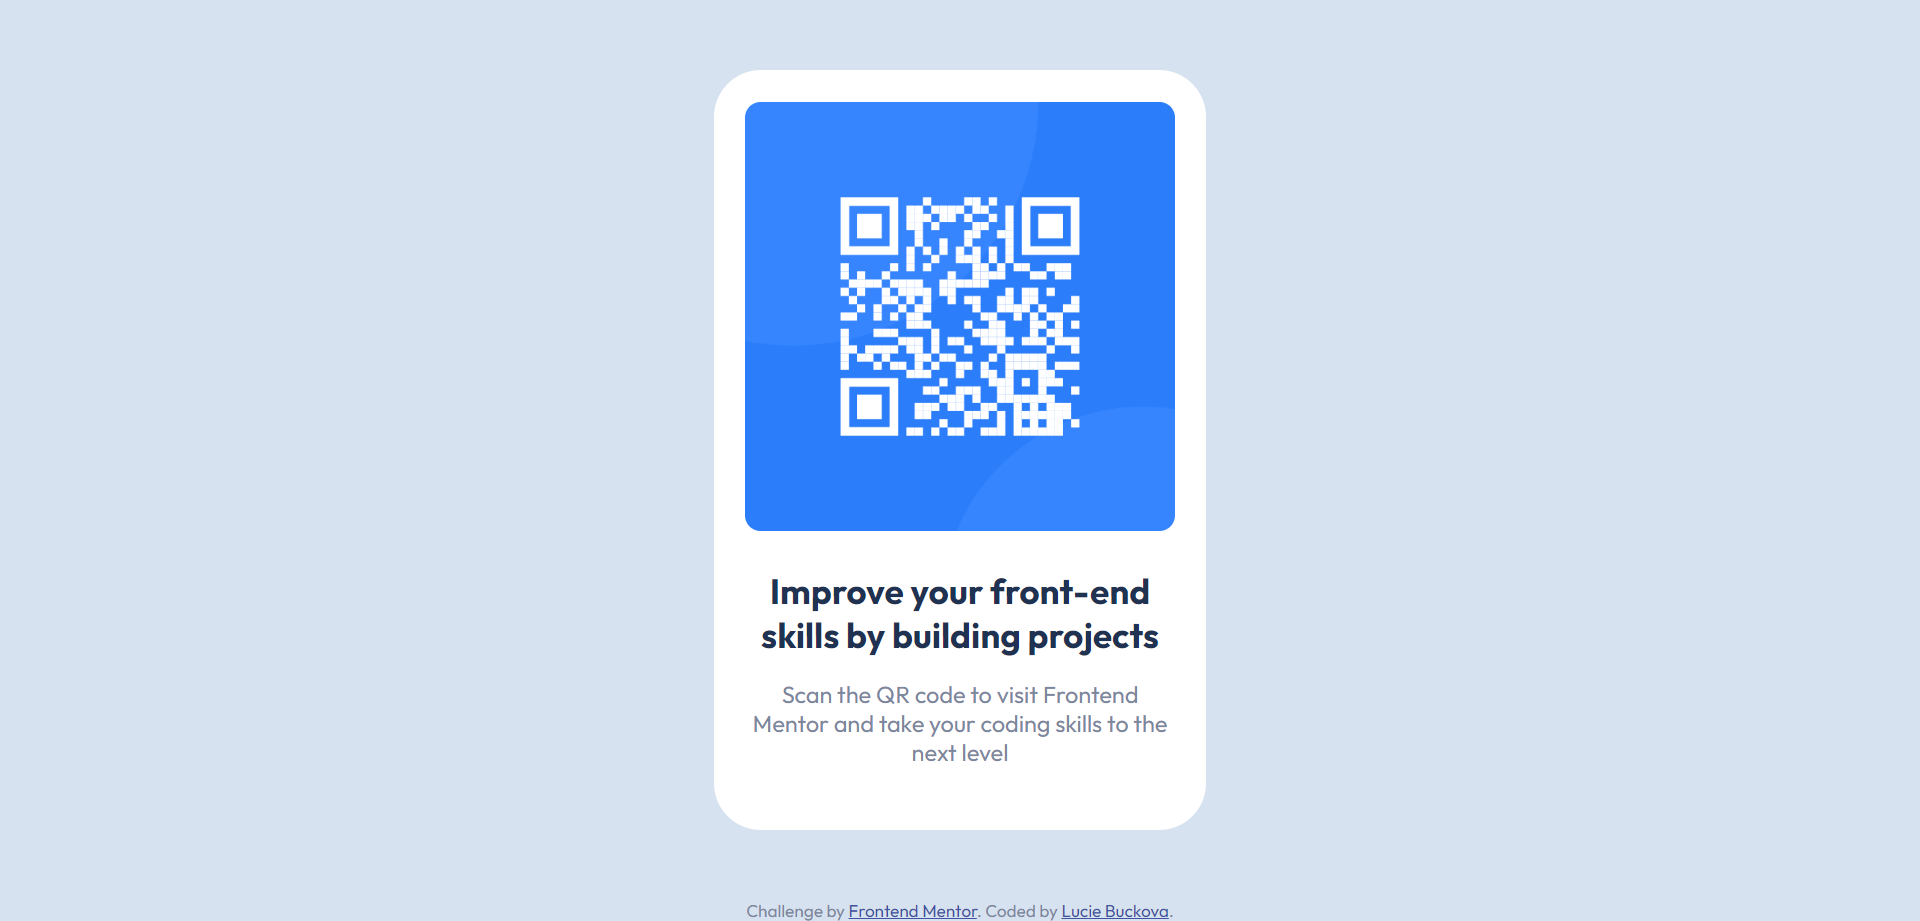
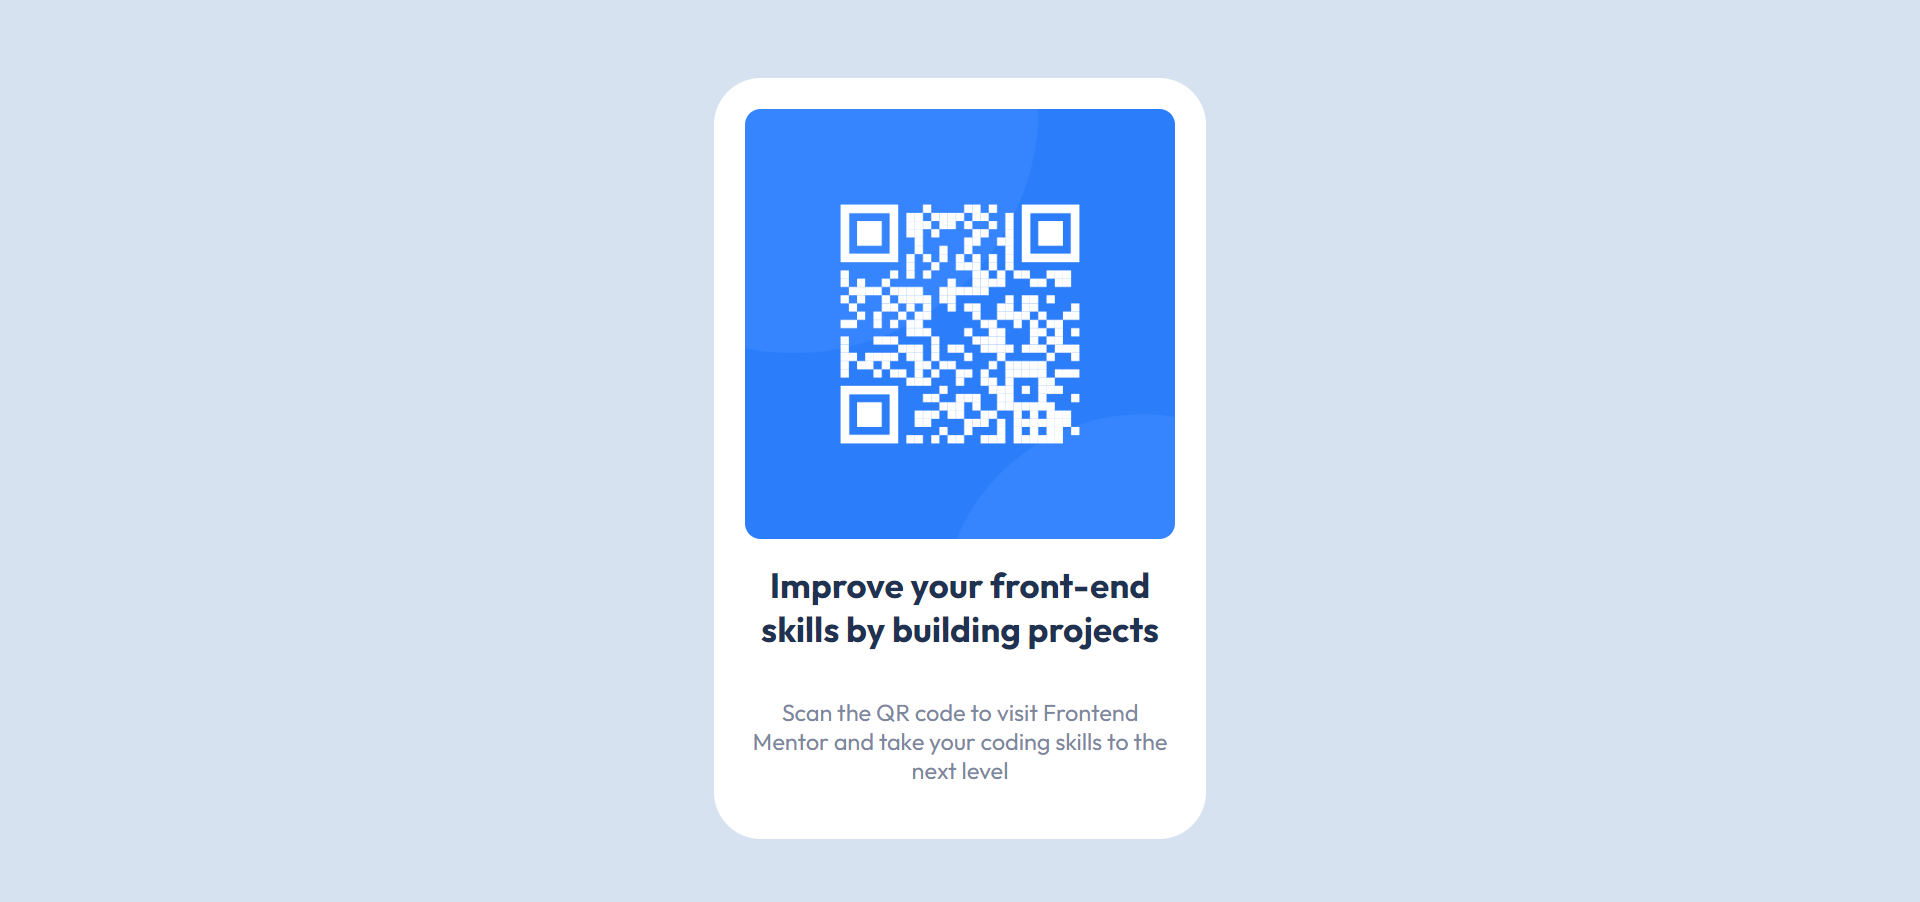
Flexbox

diff --git a/style.css b/style.css
@@ -11,8 +11,12 @@ body {
 }
 
 .mainBox {
+    display: flex;
+    flex-direction: column;
+    justify-content: space-evenly;
+    align-items: center;
     background-color: hsl(0, 0%, 100%);
-    margin: 90px auto;
+    margin: 50px auto;
     width: 315px;
     padding: 20px;
     border-radius: 30px;
@@ -24,24 +28,19 @@ body {
 }
 
 .mainBox h1 {
-    text-align: center;
     color: hsl(218, 44%, 22%);
     font-size: 1.5em;
-    margin-top: 20px;
+    text-align: center;
 }
 
 .mainBox p {
     text-align: center;
-    margin-bottom: 20px;
 }
 
-@media screen and (min-width: 1100px) {
-    .mainBox {
-        margin: 45px auto;
-    }
-}
 .attribution { 
-    font-size: 11px; text-align: center; 
+    font-size: 11px; 
+    text-align: center;
+    padding: 20px; 
 }
 
 .attribution a { 

diff --git a/README.md b/README.md
@@ -22,7 +22,7 @@ This is a solution to the [QR code component challenge on Frontend Mentor](https
 
 - Semantic HTML5 markup
 - CSS custom properties
-- Mobile-first workflow
+- Flexbox
 
 ## Author
 
